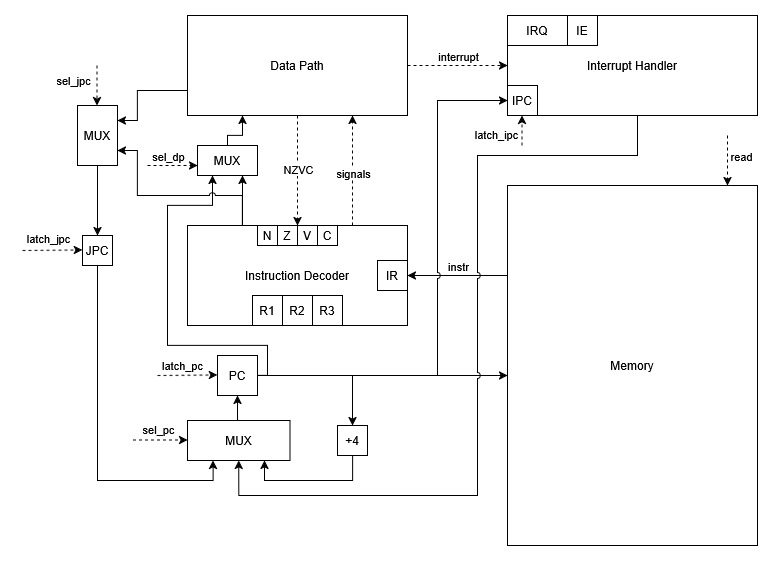
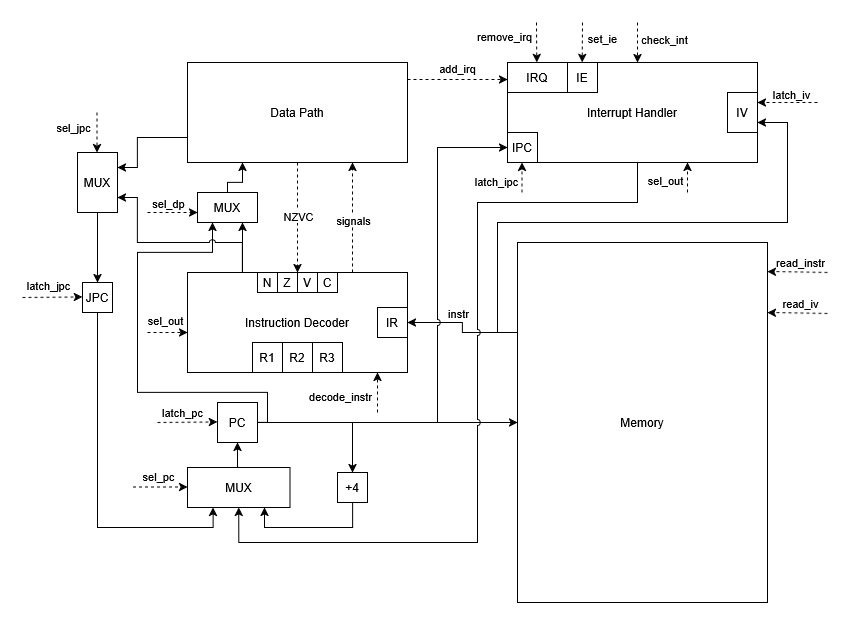
update readme info

diff --git a/src/machine/units/control_unit.py b/src/machine/units/control_unit.py
@@ -77,7 +77,7 @@ class _InterruptHandler:
         for i in range(len(str(bin(irq_value)[2:]))):
             if (irq_value & 1) == 1:
                 self.signal_remove_irq(int("1" + "0" * i, 2))
-                self.signal_latch_iv(i)
+                self.signal_read_and_latch_iv(i)
                 break
 
             irq_value >>= 1
@@ -88,7 +88,7 @@ class _InterruptHandler:
 
         return True
 
-    def signal_latch_iv(self, interrupt_vector: int):
+    def signal_read_and_latch_iv(self, interrupt_vector: int):
         self.out.set_input_value(1, self.control_unit.datapath.memory.read(interrupt_vector * 4))
 
     def signal_add_irq(self, interrupt_vector: int) -> None:

diff --git a/src/compiler/__main__.py b/src/compiler/__main__.py
@@ -7,8 +7,8 @@ from .translator import Translator
 
 if __name__ == "__main__":
     parser = argparse.ArgumentParser()
-    parser.add_argument("filename", help="Source code file name")
-    parser.add_argument("output", help="Compiled code file name")
+    parser.add_argument("filename", help="The file with the source code")
+    parser.add_argument("output", help="The file into which the source code will be compiled")
     parser.parse_args()
 
     args = parser.parse_args()

diff --git a/README.md b/README.md
@@ -152,9 +152,6 @@ do_print()  # Ошибка
 
 Булевый тип данных отсутствует, вместо него следует использовать `int32`.
 
-# Транслятор
-Будет позже...
-
 # Организация памяти
 
 ## Машинное слово
@@ -292,20 +289,20 @@ do_print()  # Ошибка
 ```
 
 ## Расположение данных в памяти
-Как уже было сказано ранее, процессор использует концепцию фон Неймана, поэтому все инструкции, данные, процедуры и т.д. находятся на одной ленте памяти. При этом, расположены в памяти они следующим образом:
+Как уже было сказано ранее, процессор использует концепцию фон Неймана, поэтому все инструкции, данные, процедуры и т.д. находятся на одной ленте памяти. При этом, расположены в памяти они следующим образом (адресация побайтовая):
 ```
 +--------------------------------------------------+
 |                Вектора прерываний                |
 +--------------------------------------------------+
-| 00  : вектор прерывания 1                        |
-| 01  : вектор прерывания 2                        |
+| 000 : вектор прерывания 1                        |
+| 004 : вектор прерывания 2                        |
 |    ...                                           |
-| 0F  : вектор прерывания 16                       |
+| 03С : вектор прерывания 16                       |
 +--------------------------------------------------+
 |                Порты ввода-вывода                |
 +--------------------------------------------------+
-| 10  : порт ввода                                 |
-| 11  : порт вывода                                |
+| 040 : порт ввода                                 |
+| 044 : порт вывода                                |
 +--------------------------------------------------+
 |               Константы (c - метка)              |
 +--------------------------------------------------+
@@ -344,7 +341,7 @@ do_print()  # Ошибка
 
 ### Вектора прерываний
 Всего доступно 16 векторов прерываний (из них используется не все, большая часть - резерв), которые расположены в самом начале памяти. По этим адресам находятся адреса обработчиков прерываний (чем меньше адрес, тем больше приоритет у прерывания). Если прерывание не обрабатывается, то нужно все равно оставить обработчик-заглушку (обработчик, который будет ничего не делать и возвращать программу в обычный поток выполнения).<br><br>
-Обработка прерывания является аппаратно-программной: служебные регистры сохраняются системой в теневые регистры, все остальные регистры (если они требуются) должны быть сохранены программистом. Во время обработки одного прерывания, система блокирует выполнение других прерываний, в том числе и от одного и того же устройства (поэтому обработчики прерываний должны быть как можно более компактными, чтобы не потерять данные). Для выхода из обработчика прерывания используется специальная команда, которая вернет систему в состояние до прерывания и установит флаг IE в 1.
+Обработка прерывания является аппаратно-программной: служебные регистры (в данной реализации это только `PC`) сохраняются системой в теневые регистры (в данной реализации это только `IPC`), все остальные регистры (если они требуются) должны быть сохранены программистом. Во время обработки одного прерывания, система блокирует выполнение других прерываний, в том числе и от одного и того же устройства (поэтому обработчики прерываний должны быть как можно более компактными, чтобы не потерять данные). Для выхода из обработчика прерывания используется специальная команда, которая вернет систему в состояние до прерывания и установит флаг IE в 1.
 
 ### Порты ввода-вывода
 Порты ввода и вывода мапятся на адреса памяти. Конфигурация процессора по умолчанию делает это на адреса, которые находятся сразу же за портами ввода и вывода.
@@ -764,30 +761,119 @@ do_print()  # Ошибка
 |:----:|:--------:|----------------------------------------------|
 | `1`  |   `IF`   | `IR <- [PC], stop the machine`               |
 
+# Транслятор
+
+## Запуск
+Реализация транслятора находится в папке `src`, help сообщение транслятора:
+```bash
+usage: __main__.py [-h] filename output
+
+positional arguments:
+  filename    The file with the source code
+  output      The file into which the source code will be compiled
+
+options:
+  -h, --help  show this help message and exit
+```
+
+Пример команды запуска внутри папки `src`:
+```
+python -m compiler code.txt output.bin
+```
+
+## Принцип работы
+Полный цикл компиляции исходного кода в машинный:
+ - Токенизация исходного кода
+ - Парсинг. Построение AST дерева.
+ - Компиляция в машинный код
+
+Трансляция в инструкции происходит рекурсивно (в бинарных операциях дерево левостороннее).
+
+Сам процесс компиляции происходит в несколько итераций:
+ 1) Cоздаются инструкции (основной программы, функций, векторов прерываний) и переменные.
+ 2) Вычисляются все адреса и смещения.
+ 3) Формируется бинарный код.
+
+Использование регистров:
+ - `T1`-`T6` - используются для вычисления бинарных и унарных операций, не используются для хранения переменных на постоянной основе.
+ - `T7`-`T8` - используются для временной загрузки значений из памяти (там, где не нужно хранить значение долго).
+ - `S1`-`S12` - используются для численных переменных переменных.
+
+Если регистров не хватает, используется память.
+
 # Модель процессора
-## DataPath
+
+## Запуск
+Реализация процессора находится в папке `src`, help сообщение процессора:
+```bash
+usage: __main__.py [-h] memory_filename config_filename
+
+positional arguments:
+  memory_filename  The memory dump file name
+  config_filename  The machine's config file name
+
+options:
+  -h, --help       show this help message and exit
+```
+
+Для его запуска нужен:
+ - дамп памяти (`memory_filename`) - бинарник, полученный в результат работы транслятора.
+ - конфигурация (`config_filename`) - yaml файл с настройками процессора, журнала работы и ввода/вывода.
+
+Пример файла конфигурации:
+```yaml
+machine:
+  ticks_limit: 10000
+  memory_size: 1200
+
+journal_fmt: |
+  {TICK:dec:8} {PC:hex:32} {IR:bin:32} {AR:hex:32} {ALU_A:hex:32} {ALU_B:hex:32} {BR:hex:32}
+
+memio:
+  tokens: [[50, "H"], [100, "e"], [150, "l"], [200, "l"], [250, "o"]]
+  output_fmt: num
+```
+
+Пояснение:
+ - `ticks_limit` - лимит тактов для выполнения программы (если он будет превышен, исполнение будет прервано).
+ - `memory_size` - размер памяти в байтах (если дамп памяти занимает больше допустимой памяти, процессор выкинет ошибку при инициализации).
+ - `journal_fmt` - формат строчки журнала работы процессора, каждую из защелок можно вывести в следующем виде `{название:формат:размер защелки в битах}`.
+ - `tokens` - список токенов, которые будут поданы на запись в memio ввод (каждая пара из себя представляет такт, в который будет записан токен и сам токен)
+ - `output_fmt` - формат вывода данных (если указан `num`, то выведенные данные будут представлены в виде массива чисел, если `str` - в виде строки)
+
+Пример запуска процессора из папки `src`:
+```
+python -m machine output.bin default.config
+```
+
+## Схемы
+### DataPath
 <img src="media/generated/data_path.jpg">
 
 Объяснение сигналов:
  - `latch_*` - сигналы защелок
- - `sel_*` - выбор входа мультиплексора
- - `read_reg` - чтение регистров на левый и правый вход АЛУ
+ - `sel_*` - сигналы выбора входа мультиплексора
+ - `read_reg` - сигналы для чтения регистров на левый и/или правый вход АЛУ
  - `write_reg` - сигнал для записи входящего значения в регистр
  - `alu_op` - сигнал для выбора операции в АЛУ
  - `NZVC` - сигнал для отправки флагов в Control Unit (источником сигнала является АЛУ)
  - `read`, `write` - сигналы для чтения/записи значений в память
- - `interrupt` - сигнал установки прерывания
+ - `add_irq` - сигнал для добавления запроса на прерывание в Interrupt Handler
 
-## Control Unit
+### Control Unit
 <img src="media/generated/control_unit.jpg">
 
 Объяснение сигналов:
  - `latch_*` - сигналы защелок
- - `sel_*` - выбор входа мультиплексора
- - `read` - сигнал чтения значений (в данном случае инструкций) из памяти
+ - `sel_*` - сигналы выбора входа мультиплексора
  - `signals` - исходящие сигналы от Control Unit, описанные в DataPath
- - `NZVC` - сигнал установки флагов
- - `interrupt` - сигнал установки прерывания
+ - `NZVC` - сигнал установки флагов (источником сигнала является АЛУ)
+ - `read_instr` - сигнал чтения инструкции в Instruction Decoder
+ - `decode_instr` - сигнал декодирования инструкции
+ - `check_int` - сигнал инициализации прерывания (если есть)
+ - `set_ie` - сигнал установки `IE` в 0 или 1
+ - `add_irq`, `remove_irq` - сигнал для добавления/удаления запроса на прерывание в Interrupt Handler
+ - `read_iv` - сигнал чтения адреса обработчика прерывания
 
 # Тестирование
 Будет позже...
